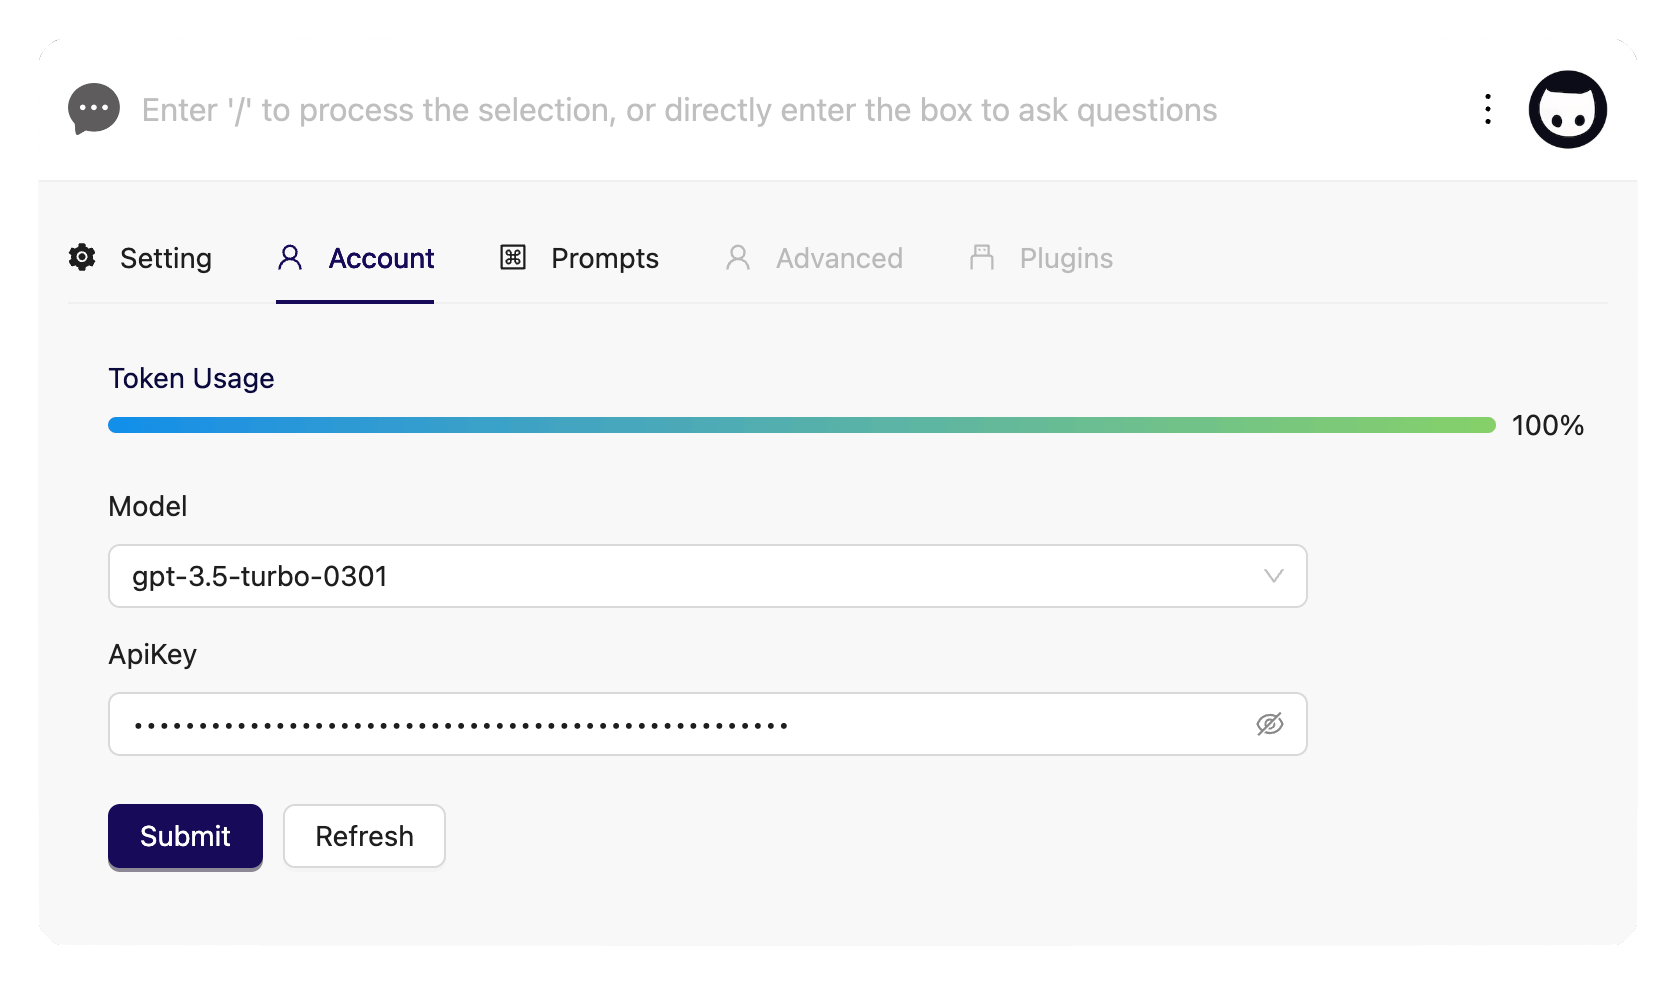
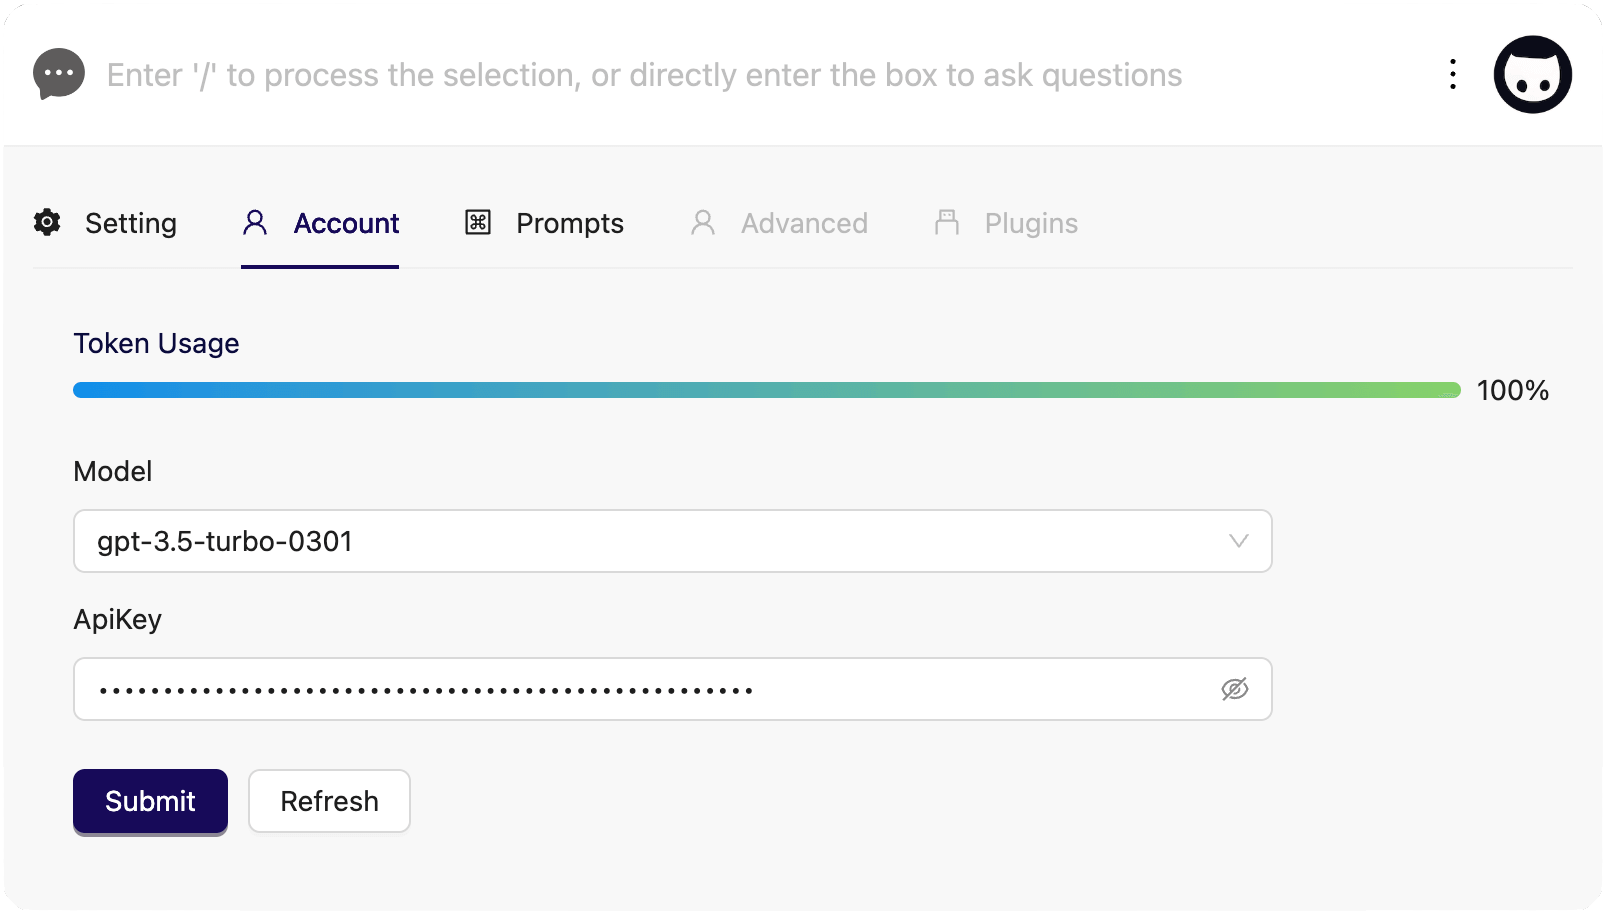
feat: update screenshots

diff --git a/README-CN.md b/README-CN.md
@@ -69,13 +69,27 @@ Onepoint 是一款基于 Electron 的开源 AI 助手，旨在打造极致的桌
 - 账号余额查询
 - 多语言支持
 
-## 02 开始
+
+## 02 截图
+
+<details>
+<summary>Detail</summary>
+<img src='./assets/screenshot/chat.png' />
+<img src='./assets/screenshot/code.png' />
+<img src='./assets/screenshot/console.png' />
+<img src='./assets/screenshot/plugin.png' />
+<img src='./assets/screenshot/setting.png' />
+<img src='./assets/screenshot/account.png' />
+<img src='./assets/screenshot/prompts.png' />
+</details>
+ 
+## 03 开始
 
 前往 [官网](https://www.1ptai.com/) 下载并试用该工具。
 
 如果你遇到相关 Bug，或者是有其他的功能需求，欢迎提 issue 或相关 PR，除了能得到我们大大的赞 👍 以外，还有机会获得个人定制的 avatar 形象，并通过 [NFT](https://opensea.io/zh-CN/collection/onepointai-collection) 的形式免费赠与到你的钱包（详情参见[贡献者须知 - 开发者激励](https://github.com/onepointAI/onepoint/issues/4) ）。
 
-## 03 开发
+## 04 开发
 
 欢迎为我们提交 PR，或具有建设性的意见，一起做点有意思的事情
 
@@ -86,7 +100,7 @@ Onepoint 是一款基于 Electron 的开源 AI 助手，旨在打造极致的桌
 > yarn start
 ```
 
-## 04 愿景与路线图
+## 05 愿景与路线图
 
 长远地看，我们希望把 onepoint 打造成个性化的智能辅助工具，以作为各个编辑与阅读软件的能力延伸，同时借助可扩展的插件机制丰富更多样的玩法，它既是工具，也是入口，希望对屏幕前的你有所帮助或启发。
 

diff --git a/README.md b/README.md
@@ -71,8 +71,7 @@ With ChatGPT technology, users can continuously train onepoint to generate and r
 
  <br/>
 
- ## 02 Screenshots
-
+## 02 Screenshots
 
 <details>
 <summary>Detail</summary>
